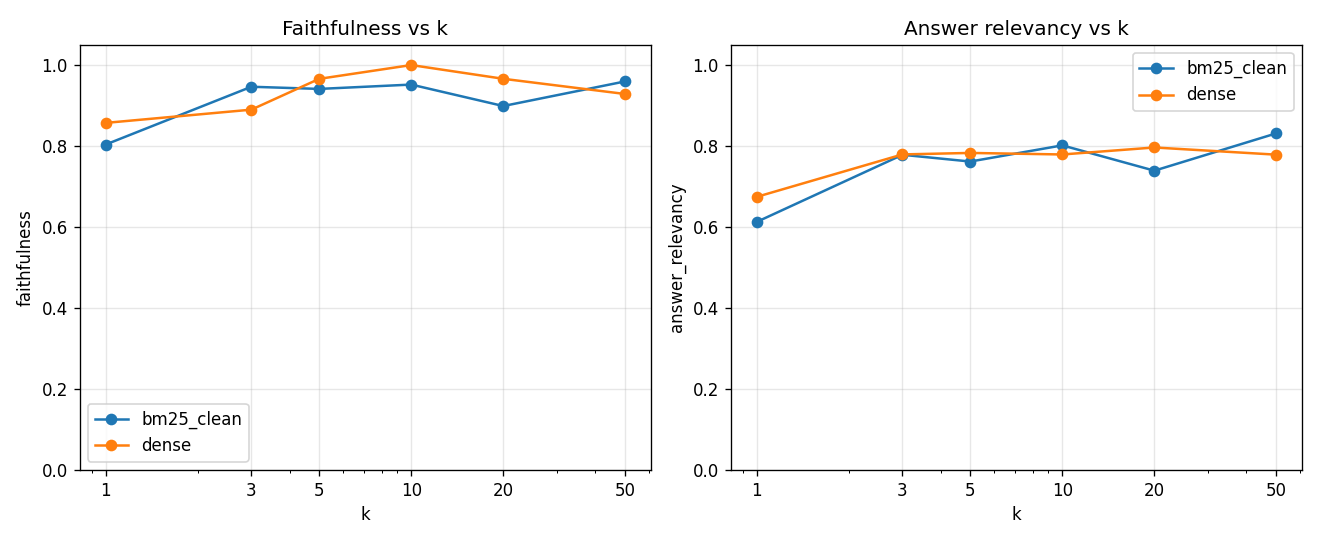
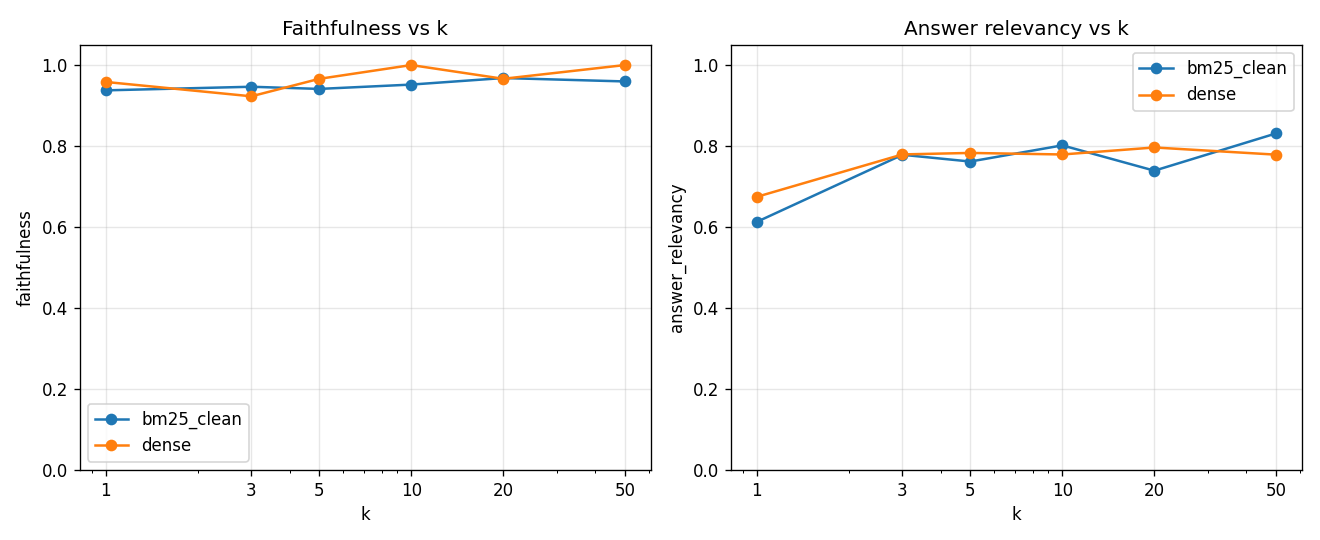
fix: exclude refusals from faithfulness mean

Changed region(s): [[0.0621, 0.1481, 0.2485, 0.2963], [0.3106, 0.1185, 0.497, 0.2074]]

diff --git a/experiments/2026-06-13_rag_eval_clean-index/plot_paper_figure.py b/experiments/2026-06-13_rag_eval_clean-index/plot_paper_figure.py
@@ -1,0 +1,39 @@
+"""Render the paper's Figure 2 (quality_vs_k_paper.png) from summary.csv.
+
+Faithfulness and answer relevancy vs k, one line per retriever. Faithfulness reflects
+the refusal masking applied in synthesis.load_joined (refusals -> NaN, excluded from the
+mean). Run from the experiment directory:  python3 plot_paper_figure.py
+"""
+from pathlib import Path
+import matplotlib
+matplotlib.use("Agg")
+import matplotlib.pyplot as plt
+import pandas as pd
+
+HERE = Path(__file__).resolve().parent
+K_VALUES = [1, 3, 5, 10, 20, 50]
+STYLE = {"bm25_clean": ("BM25", "#1f77b4"), "dense": ("Dense", "#d62728")}
+
+plt.rcParams.update({"font.size": 13, "axes.titlesize": 15, "axes.labelsize": 13})
+
+agg = pd.read_csv(HERE / "summary.csv")
+
+fig, axes = plt.subplots(1, 2, figsize=(12, 4.5))
+panels = [("faithfulness", "faithfulness", "Faithfulness vs k", "lower left"),
+          ("answer_relevancy", "answer relevancy", "Answer relevancy vs k", "upper right")]
+for ax, (col, ylab, title, legloc) in zip(axes, panels):
+    for retr, g in agg.groupby("retriever"):
+        label, color = STYLE.get(retr, (retr, None))
+        ax.plot(g["k"], g[col], marker="o", markersize=8, linewidth=2, color=color, label=label)
+    ax.set_xscale("log")
+    ax.set_xticks(K_VALUES)
+    ax.set_xticklabels(K_VALUES)
+    ax.set_xlabel("k (retrieved documents)")
+    ax.set_ylabel(ylab)
+    ax.set_ylim(0, 1.05)
+    ax.grid(True, alpha=0.3)
+    ax.legend(loc=legloc)
+fig.tight_layout()
+fig.savefig(HERE / "quality_vs_k_paper.png", dpi=150)
+plt.close(fig)
+print("wrote quality_vs_k_paper.png")

diff --git a/src/ows_retrieval/rageval/synthesis.py b/src/ows_retrieval/rageval/synthesis.py
@@ -23,6 +23,10 @@ K_VALUES = [1, 3, 5, 10, 20, 50]
 def load_joined(scores_path: Path, noise_path: Path) -> pd.DataFrame:
     scores = pd.read_parquet(scores_path)
     noise = pd.read_parquet(noise_path)
+    # Refusals have no answerable content, so faithfulness is undefined: mask it to NaN.
+    # RAGAS still emits a numeric 0/1 for these rows (see README), which would otherwise
+    # be averaged into the reported faithfulness. answer_relevancy is left untouched.
+    scores.loc[scores["is_refusal"], "faithfulness"] = float("nan")
     return scores.merge(noise, on=["retriever", "topic_id", "k"], validate="one_to_one")
 
 
